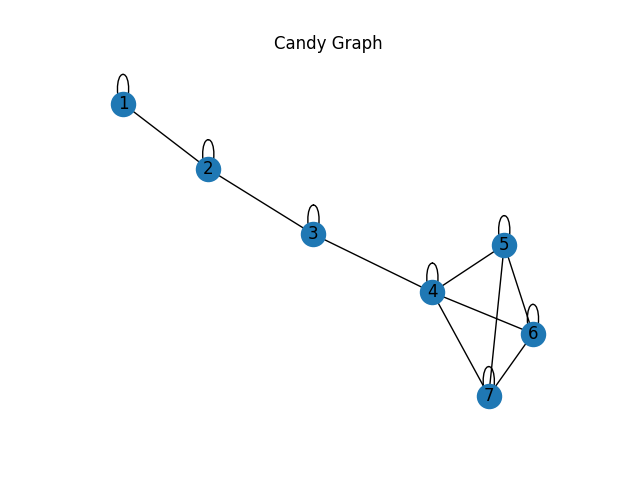
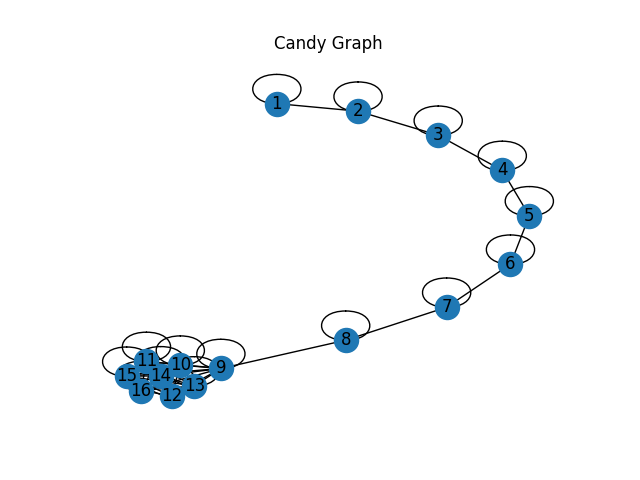
still trash

diff --git a/linear_algebr_hometest.py b/linear_algebr_hometest.py
@@ -21,17 +21,17 @@ def clique(n):
         for j in range(1, n+1):
             if(i < j):
                 G.add_edge(i, j)
-    
-    return G
+    adjacency = nx.to_numpy_array(G)
+    return G, adjacency
 
-cliqueG= clique(two_pow_11)
+cliqueG, adjacency_mat_clique= clique(10)
 print("finished creating clique")
 
-#fig, ax = plt.subplots()
-#nx.draw(cliqueG, with_labels=True, ax=ax)
-#ax.set_title("Clique Graph")
+fig, ax = plt.subplots()
+nx.draw(cliqueG, with_labels=True, ax=ax)
+ax.set_title("Clique Graph")
 
-#plt.savefig("clique_graph.png")
+plt.savefig("clique_graph.png")
 '''
 def tree(n):
     G = nx.Graph()
@@ -63,16 +63,17 @@ def ring(n):
             G.add_edge(n,1)
         else:
             G.add_edge(i, i+1)
-    return G
+    adjacency = nx.to_numpy_array(G)
+    return G, adjacency
 
-ringG = ring(two_pow_11)
+ringG, adjacency_mat_ring = ring(12)
 print("finished creating ring")
 
-#fig, ax = plt.subplots()
-#nx.draw(ringG, with_labels=True, ax=ax)
-#ax.set_title("Ring Graph")
+fig, ax = plt.subplots()
+nx.draw(ringG, with_labels=True, ax=ax)
+ax.set_title("Ring Graph")
 
-#plt.savefig("ring_graph.png")
+plt.savefig("ring_graph.png")
 
 
 def candy(n):
@@ -99,15 +100,16 @@ def candy(n):
 
     G.add_edge(n//2, (n//2)+1)
 
-    return G
+    adjacency = nx.to_numpy_array(G)
+    return G, adjacency
 
-candyG= candy(two_pow_11)
+candyG ,adjacency_mat_candy= candy(16)
 print("finished creating candy")
 
-#fig, ax = plt.subplots()
-#nx.draw(candyG, with_labels=True, ax=ax)
-#ax.set_title("Candy Graph")
-#plt.savefig("candy_graph.png")
+fig, ax = plt.subplots()
+nx.draw(candyG, with_labels=True, ax=ax)
+ax.set_title("Candy Graph")
+plt.savefig("candy_graph.png")
 
 def two_cliques(n):
     G = nx.Graph()
@@ -122,7 +124,7 @@ def two_cliques(n):
     # Connect the clique vertices
     for i in range((n//2)+1,(3*n//4)+1):
         for j in range((n//2)+1, (3*n//4)+1):
-            if i < j:
+            if i <= j:
                 G.add_edge(i, j)
 
 
@@ -130,200 +132,161 @@ def two_cliques(n):
     # Connect the clique vertices
     for i in range((3*n//4) +1, n+1):
         for j in range((3*n//4) +1, n+1):
-            if i < j:
+            if i <= j:
                 G.add_edge(i, j)
     
 
     G.add_edge(1, (n//2)+1)
     G.add_edge(n//2, (3*n//4) +1)
+    
+    adjacency = nx.to_numpy_array(G)
+    return G, adjacency
 
-    return G
-
-two_cliques_G = two_cliques(24)
+two_cliques_G , adjacency_mat_two_cliques= two_cliques(16)
 print("finished creating two cliques")
 
-#fig, ax = plt.subplots()
-#nx.draw(two_cliques_G, with_labels=True, ax=ax)
-#ax.set_title("Two Cliques Graph")
-#plt.savefig("two_cliques_graph.png")
+fig, ax = plt.subplots()
+nx.draw(two_cliques_G, with_labels=True, ax=ax)
+ax.set_title("Two Cliques Graph")
+plt.savefig("two_cliques_graph.png")
 
 #question 2
-
-def stationary_distribution(G):
+'''
+def stationary_distribution(adjacency):
     p = []
-    adjacency = nx.to_numpy_array(G)
+    #adjacency = nx.to_numpy_array(G)
     for row in adjacency:
         p.append(sum(row))
 
     p = np.array(p)
-    return adjacency, p / p.sum()
+    return p / p.sum()#, adjacency
 
-adjacency_mat_clique ,stationary_clique = stationary_distribution(cliqueG)
+stationary_clique = stationary_distribution(adjacency_mat_clique)
 print("stationary clique:", stationary_clique)
 
-adjacency_mat_ring ,stationary_ring = stationary_distribution(ringG)
+stationary_ring = stationary_distribution(adjacency_mat_ring)
 print("stationary ring:", stationary_ring)
 
-adjacency_mat_candy ,stationary_candy = stationary_distribution(candyG)
+stationary_candy = stationary_distribution(adjacency_mat_candy)
 print("stationary candy:", stationary_candy)
 
-adjacency_mat_two_cliques, stationary_two_cliques = stationary_distribution(two_cliques_G)
-print("stationary two cliques:", stationary_two_cliques)
+stationary_two_cliques = stationary_distribution(adjacency_mat_two_cliques)
+print("stationary two cliques:", stationary_two_cliques)'''
 #question 2/2
-
+'''
+def pagerank(M, num_iterations=100, d=0.85):
+    """
+    Implements the PageRank algorithm for computing the importance of web pages.
+    M: adjacency matrix where M[i][j] is 1 if there is a link from page j to page i, 0 otherwise
+    num_iterations: number of iterations to run the algorithm
+    d: damping factor
+    """
+    N = len(M)
+    v = np.random.rand(N, 1)
+    v = v / np.linalg.norm(v, 1)
+    M_hat = (d * M + (1 - d) / N)
+    for i in range(num_iterations):
+        v = M_hat @ v
+    return v
     
-
+'''
 #question 3
-'''
-def compute_eigenvalue_ratio_with_generalized_power_iteration(adjacency_mat):
-    ratios = []
-    L = 1/4
-    while L >= 1/128:
-        # Compute the two largest eigenvalues and eigenvectors of the adjacency matrix
-        eigenvalues, eigenvectors = eigsh(adjacency_mat, k=2, which='LM')
-        
-        # Sort the eigenvalues in descending order
-        sorted_eigenvalues = np.sort(eigenvalues)[::-1]
-        
-        # Calculate the ratio of the first and second eigenvalues
-        ratio = sorted_eigenvalues[0] / sorted_eigenvalues[1]
-        ratios.append(ratio)
-        
-        # Initialize the eigenvector estimate to a random vector
-        adjacency_mat = np.array(adjacency_mat)
-        x = np.random.rand(adjacency_mat.shape[0])
-        
-        # Iterate until the distance between two consecutive iterations is less than or equal to L
-        prev_x = x.copy()
-        x = adjacency_mat @ x
-        x /= np.linalg.norm(x, ord=2)
-        distance = np.linalg.norm(x - prev_x, ord=2)
-        while distance > L:
-            prev_x = x.copy()
-            x = adjacency_mat @ x
-            x /= np.linalg.norm(x, ord=2)
-            distance = np.linalg.norm(x - prev_x, ord=2)
-        
-        # Divide L by 2 for the next iteration
-        L /= 2
-    
-    return ratios
+ # Define power iteration method
+def power_iteration(A, v):
+    Av = np.dot(A,v)
+    v_new = Av / np.linalg.norm(Av)
+    return v_new
 
-'''
-'''
-def power_iteration(A, L):
-    A=np.array(A)
-    n = A.shape[0]
-    x0 = np.random.rand(n)
-    x0 /= np.linalg.norm(x0)
+def get_highest_eigenvalue(graph,A, tol):
+    # Initialize random vector
+    x = np.random.rand(len(graph))
+   
+    # Calculate adjacency matrix and normalize to obtain transition matrix
+    D = np.diag(np.sum(A, axis=1))
+   # P = np.linalg.inv(D).dot(A)
 
-    for i in range(1000):
-        y = A.dot(x0)
-        x1 = y / np.linalg.norm(y)
-        if np.linalg.norm(x1 - x0) < L:
+    lambda_1_old = 0
+    old_x = x
+    while True:
+        x = power_iteration(A, x)
+        a = np.dot(x,A)
+        b = np.dot(a, x)
+        lambda_1 = b / np.dot(x,x)
+
+        #if abs(lambda_1 - lambda_1_old) < tol:
+        if abs(np.linalg.norm(x-old_x)) < tol:
             break
-        x0 = x1
+        lambda_1_old = lambda_1
+        old_x = x
+        
+    return lambda_1, x
 
-    return x1
+def projection(u, v):
+    # calculate dot product of u and v
+        dot_uv = np.dot(u, v)
 
-def shifted_power_iteration(A, lambda1, L):
-    A=np.array(A)
-    n = A.shape[0]
-    x0 = np.random.rand(n)
-    x0 /= np.linalg.norm(x0)
+    # calculate dot product of u with itself
+        dot_uu = np.dot(u, u)
 
-    B = A - lambda1 * np.eye(n)
-    B = np.array(B)
-    for i in range(1000):
-        y = B.dot(x0)
-        x2 = y / np.linalg.norm(y)
-        if np.linalg.norm(x2 - x0) < L:
+    # calculate projection of v onto u
+        proj_uv = (dot_uv / dot_uu) * u
+        return proj_uv
+
+def get_2nd_highest_eigenvalue(graph,A,v, tol):
+    w = np.random.rand(len(graph))
+
+    proj_uv = projection(v, w)
+    u = w - proj_uv
+
+    D = np.diag(np.sum(A, axis=1))
+    #P = np.linalg.inv(D).dot(A)
+
+    lambda_2_old = 0
+    old_u = u
+    while True:
+        u = power_iteration(A, u)
+        a = np.dot(u,A)
+        b = np.dot(a, u)
+        lambda_2 = b / np.dot(u,u)
+        #if abs(lambda_2 - lambda_2_old) < tol:
+        if abs(np.linalg.norm(u - old_u)) < tol:
             break
-        x0 = x2
+        lambda_2_old = lambda_2
+        old_u = u
+        
+    return lambda_2
 
-    return x2
-
-def calculate_eigenvalue_ratio(A, L_values):
-    ratios = []
-    for L in L_values[:-1]:
-        ratios.append("for {}:".format(L))
-        lambda1_new = power_iteration(A, L)
-        lambda2_new = shifted_power_iteration(A, lambda1_new, L)
-        ratios.append(lambda1_new / lambda2_new)
-
-    return ratios
-
-# Example usage
-L_values = [1/4, 1/8, 1/16, 1/32, 1/64, 1/128]
-'''
-'''
-def generalized_power_algorithm(G, tol):
-    # Initialize the vector x with random values
-    x = np.random.rand(len(G))
-    # Set the number of iterations and tolerance level
-    # Run the power iteration
-    while(np.linalg.norm(x - x_old) < tol):
-        x_old = x
-        x = G @ x
-        x = x / np.linalg.norm(x)
-    
-    # Calculate the first and second eigenvalues
-    lambda1 = np.dot(x, G @ x)
-    lambda2 = np.dot(x, G @ G @ x)
-    
-    # Return the ratio of the first and second eigenvalues
-    return lambda1 / lambda2
+def get_2_highest(G, A, tol):
+    lambda_1, x= get_highest_eigenvalue(G, A, tol)
+    lambda_2= get_2nd_highest_eigenvalue(G, A, x, tol)
+    return lambda_1, lambda_2
 
 print("for clique:")
 for k in range(2, 7):
-    # Compute the tolerance level as 2^-k
     tol = 2 ** -k
-    # Compute the ratio of the first and second eigenvalues using the generalized power algorithm
-    ratio = generalized_power_algorithm(adjacency_mat_clique, tol)
-    # Print the ratio
-    print("Tolerance level:", tol, "Ratio of first and second eigenvalues:", ratio)
-
+    first, second = get_2_highest(cliqueG, adjacency_mat_clique, tol)
+    print(first, second)
+    print("Tolerance level:", tol, "Ratio of first and second eigenvalues:", first/second)
+    
 print("for ring:")
 for k in range(2, 7):
-    # Compute the tolerance level as 2^-k
     tol = 2 ** -k
-    # Compute the ratio of the first and second eigenvalues using the generalized power algorithm
-    ratio = generalized_power_algorithm(adjacency_mat_ring, tol)
-    # Print the ratio
-    print("Tolerance level:", tol, "Ratio of first and second eigenvalues:", ratio)
+    first, second = get_2_highest(ringG, adjacency_mat_ring, tol)
+    print(first, second)
+    print("Tolerance level:", tol, "Ratio of first and second eigenvalues:", first/second)
+
 
 print("for candy:")
 for k in range(2, 7):
-    # Compute the tolerance level as 2^-k
     tol = 2 ** -k
-    # Compute the ratio of the first and second eigenvalues using the generalized power algorithm
-    ratio = generalized_power_algorithm(adjacency_mat_candy, tol)
-    # Print the ratio
-    print("Tolerance level:", tol, "Ratio of first and second eigenvalues:", ratio)
+    first, second = get_2_highest(candyG, adjacency_mat_candy, tol)
+    print(first, second)
+    print("Tolerance level:", tol, "Ratio of first and second eigenvalues:", first/second)
+
 
 print("for two cliques:")
 for k in range(2, 7):
-    # Compute the tolerance level as 2^-k
     tol = 2 ** -k
-    # Compute the ratio of the first and second eigenvalues using the generalized power algorithm
-    ratio = generalized_power_algorithm(adjacency_mat_two_cliques, tol)
-    # Print the ratio
-    print("Tolerance level:", tol, "Ratio of first and second eigenvalues:", ratio)
-'''
-'''
-two_cliques_ratios = calculate_eigenvalue_ratio(adjacency_mat_two_cliques, L_values)
-print("two cliques: ")
-print(two_cliques_ratios)
-
-candy_ratios = calculate_eigenvalue_ratio(adjacency_mat_candy, L_values)
-print("candy: ")
-print(candy_ratios)
-
-clique_ratios = calculate_eigenvalue_ratio(adjacency_mat_clique, L_values)
-print("clique: ")
-print(clique_ratios)
-
-ring_ratios = calculate_eigenvalue_ratio(adjacency_mat_ring, L_values)
-print("ring: ")
-print(ring_ratios)
-'''
+    first, second = get_2_highest(two_cliques_G, adjacency_mat_two_cliques, tol)
+    print(first, second)
+    print("Tolerance level:", tol, "Ratio of first and second eigenvalues:", first/second)
